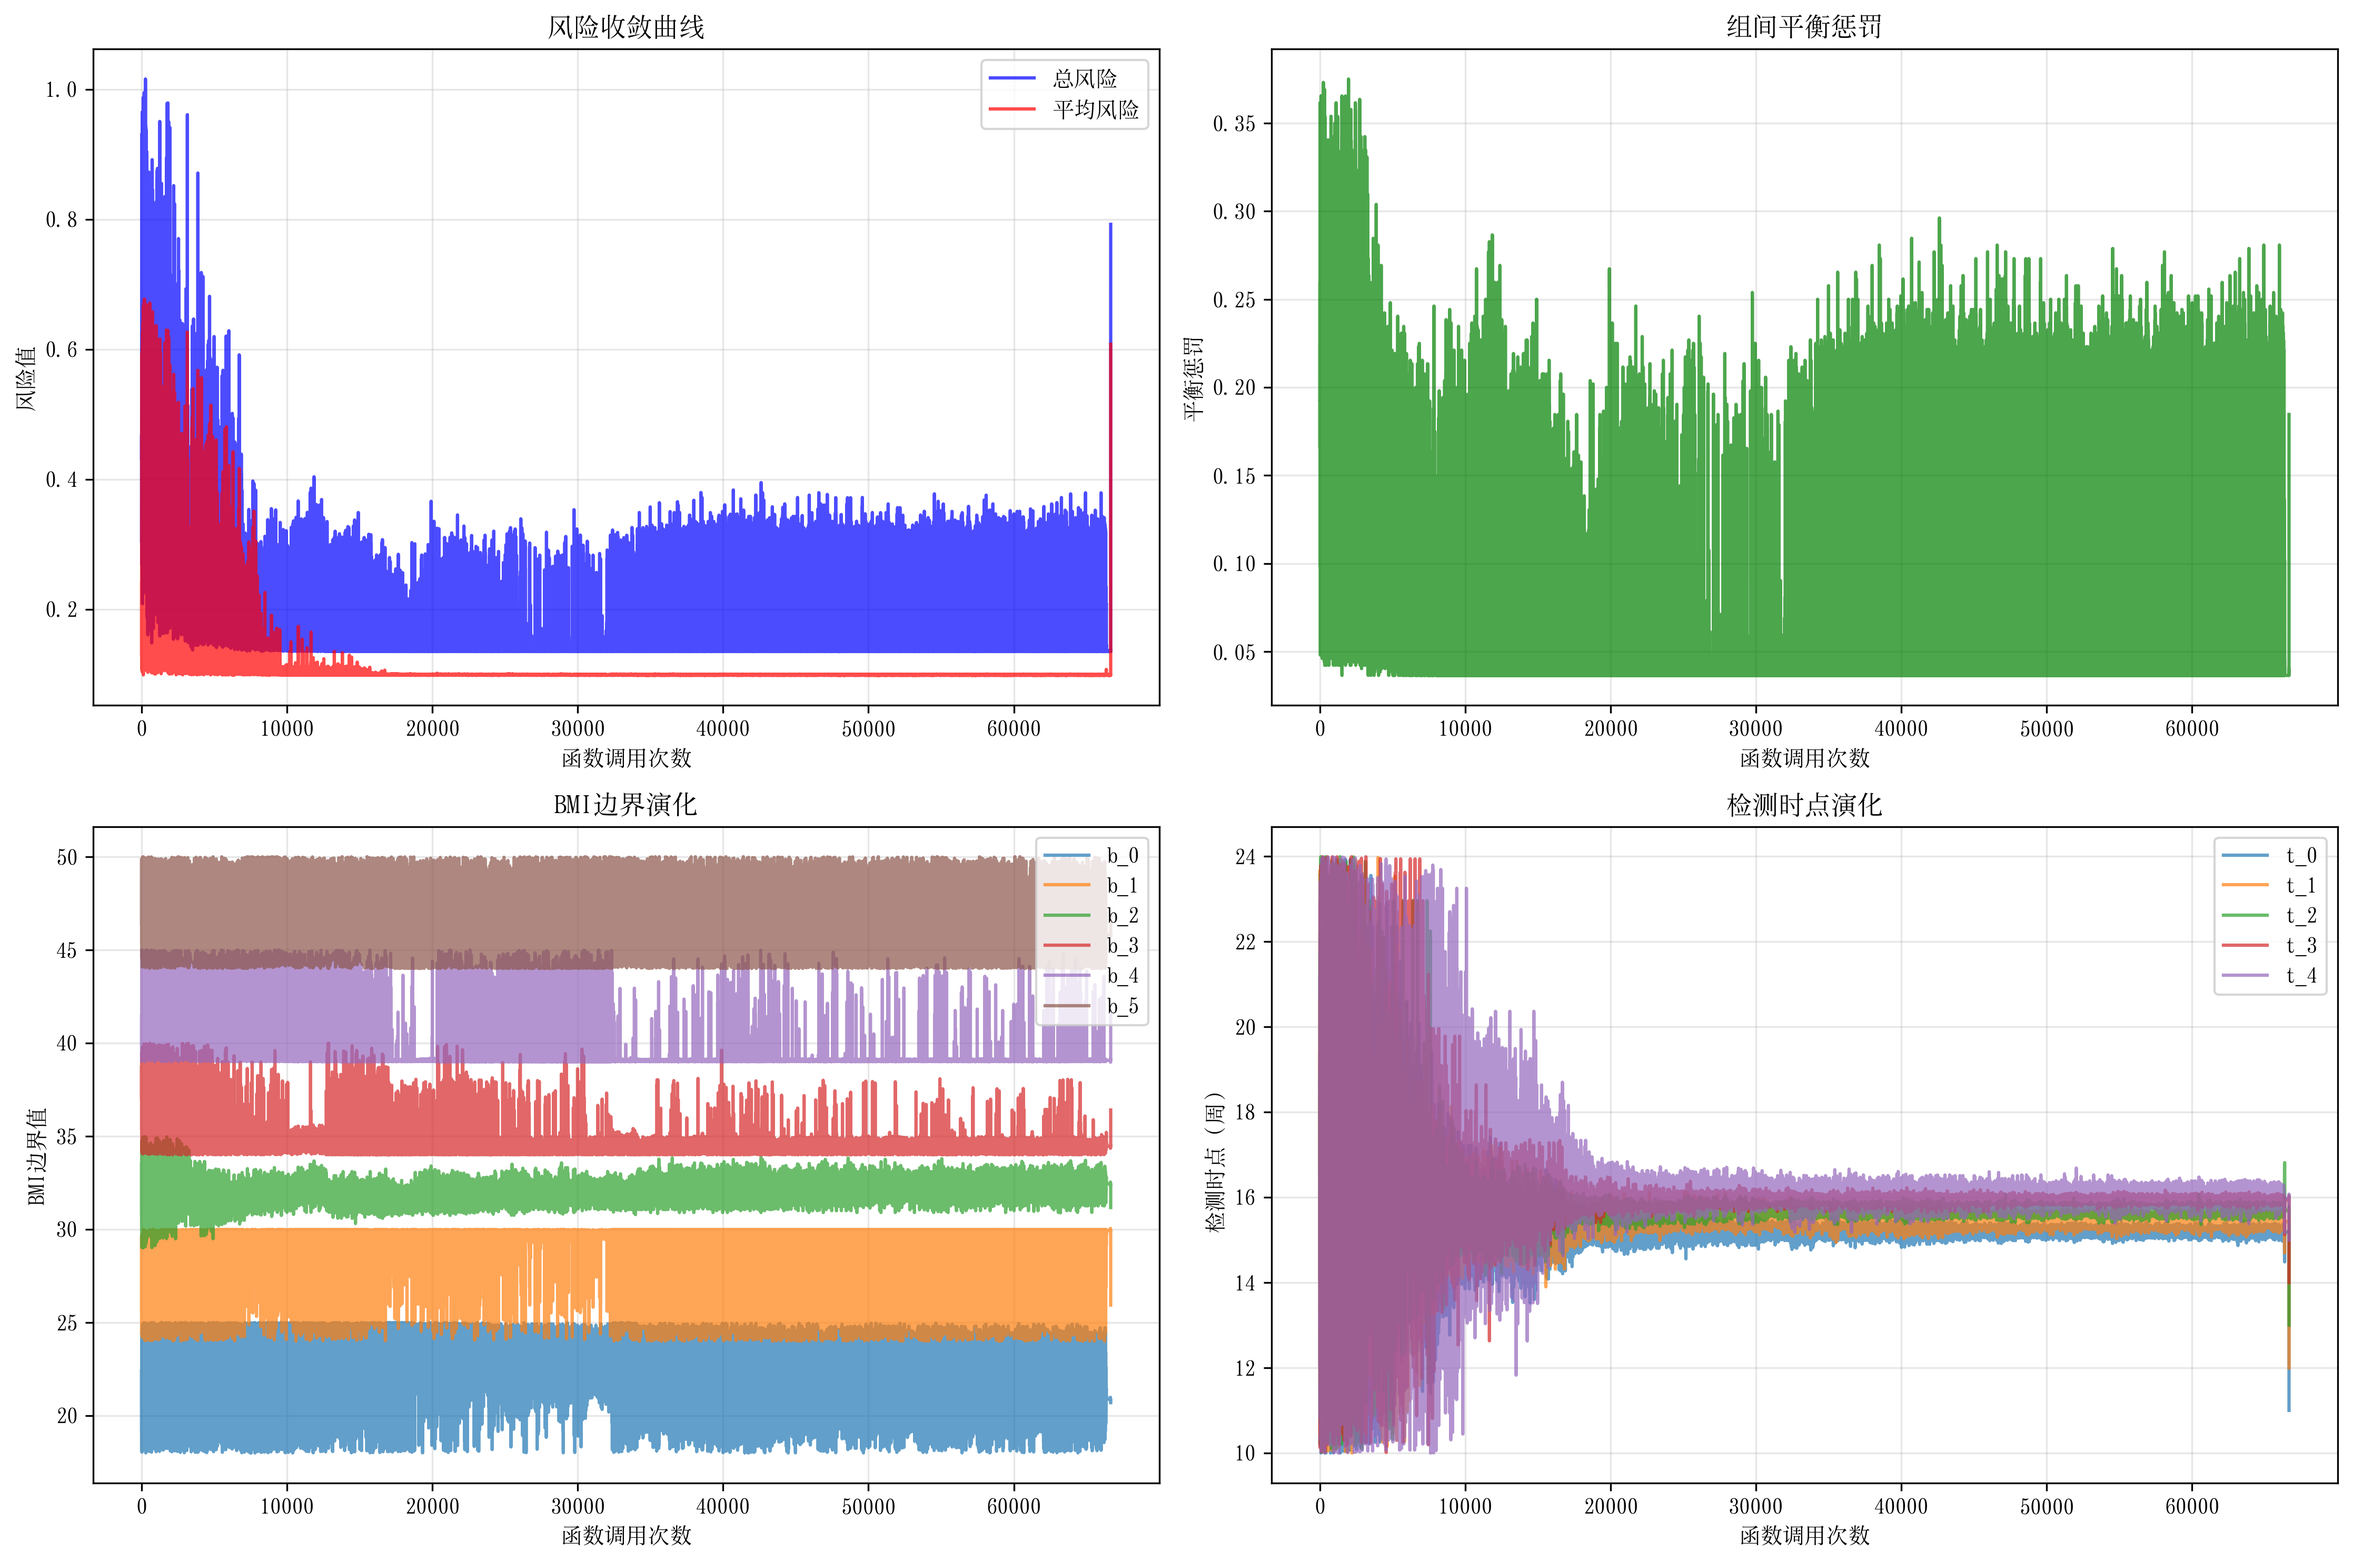
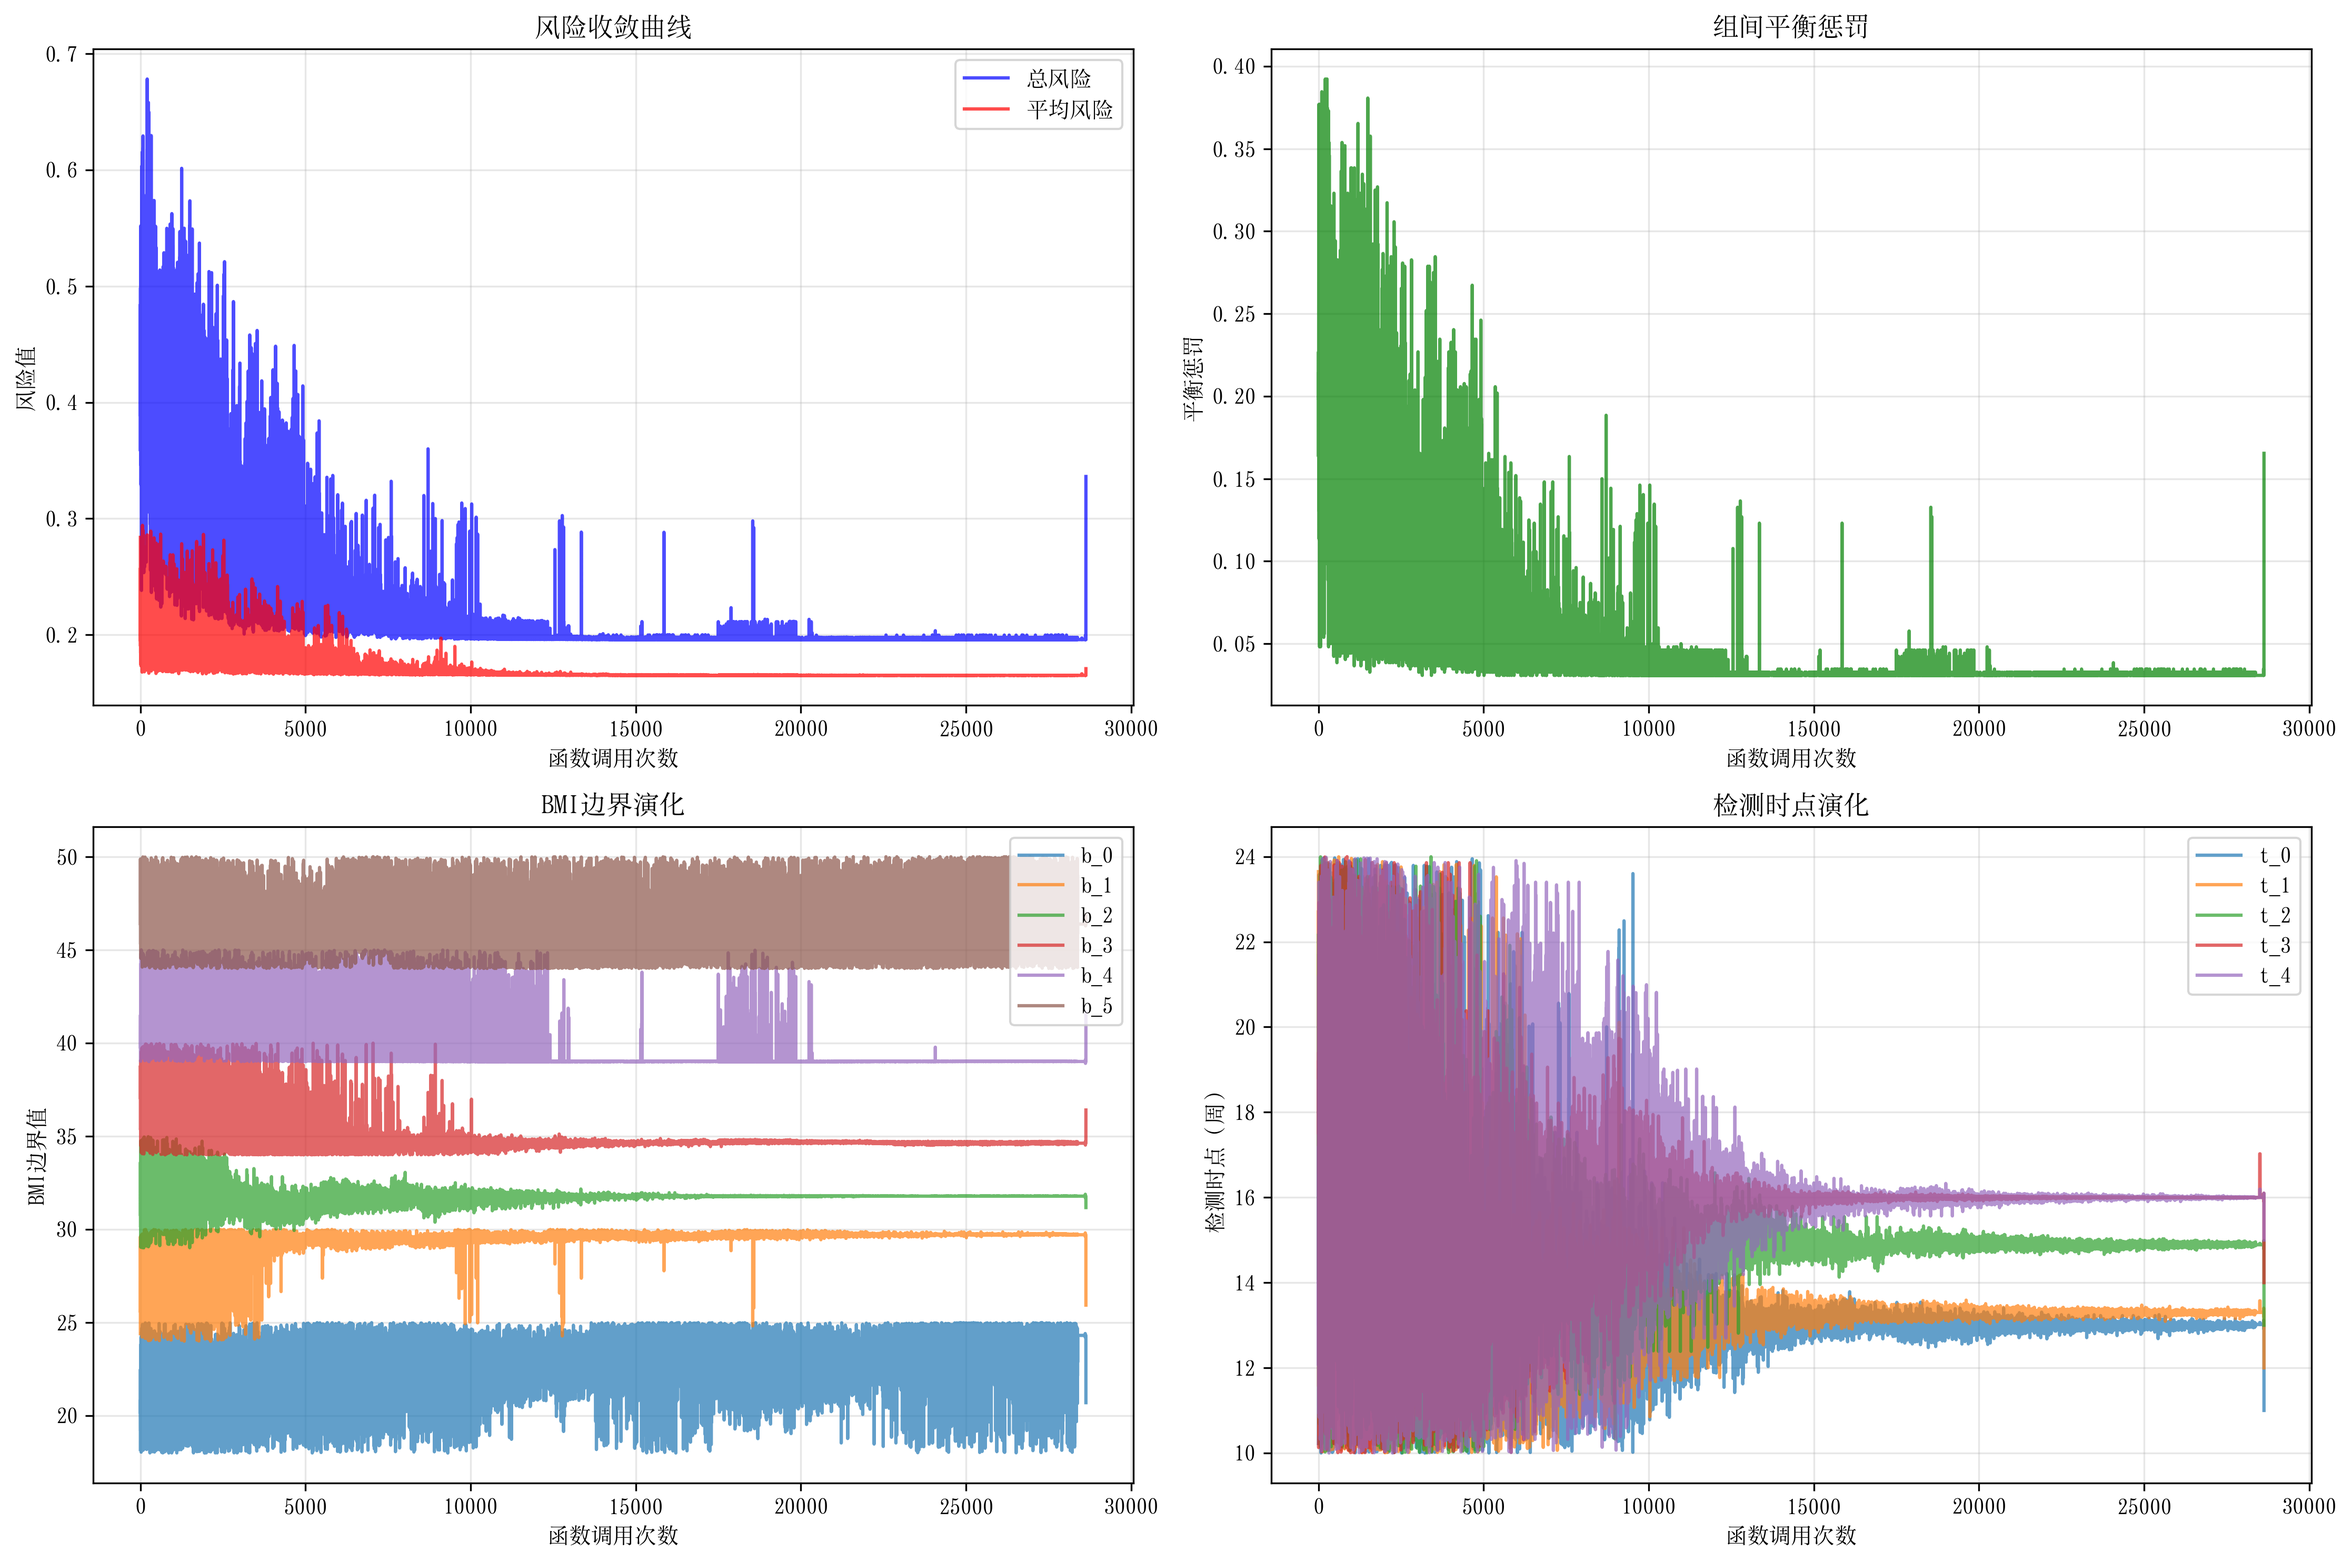
一次较好的结果

diff --git a/Q2/2_2.py b/Q2/2_2.py
@@ -16,7 +16,7 @@ logging.basicConfig(
 logger = logging.getLogger(__name__)
 
 
-class NIFTOptimizationDebugger:
+class NIPTOptimizationDebugger:
     """NIPT BMI分组优化调试器"""
 
     def __init__(self, data: pd.DataFrame, debug_mode: bool = True):
@@ -45,18 +45,13 @@ class NIFTOptimizationDebugger:
         self.w_accuracy = 0.65
         self.w_timing = 0.35
 
-    def calculate_accuracy_risk(self, y_concentration: float) -> float:
+    def calculate_accuracy_risk(self, delta_time: float) -> float:
         """计算准确性风险"""
-        threshold = 4.0
+        # if delta_time <= 0:
+        #     return 0.05  # 基础风险
 
-        if y_concentration >= threshold:
-            # 达标情况：风险很低但不为零
-            return 0.1 * np.exp(-(y_concentration - threshold))
-        else:
-            # 未达标情况：使用Sigmoid函数
-            deficit = threshold - y_concentration
-            risk = 1 / (1 + np.exp(-2 * deficit))
-            return risk
+        return min(0.1 * np.exp(0.2 * delta_time) + 0.05, 1.0)
+        # return min(0.05 + 0.05 * (1 - np.exp(-0.2 * delta_time)), 1.0)
 
     def calculate_timing_risk(self, detection_time: float) -> float:
         """计算时间延迟风险"""
@@ -71,35 +66,15 @@ class NIFTOptimizationDebugger:
         else:
             return 0.9 + 0.1 * min((detection_time - 27) / 5, 1.0)
 
-    def predict_y_concentration(
-        self, bmi: float, detection_time: float, patient_data: Dict
-    ) -> float:
-        """预测Y染色体浓度（简化模型）"""
-        # 基础浓度随时间增长
-        base_concentration = max(0, detection_time - 8) * 0.8
-
-        # BMI效应：BMI越高，浓度增长越慢
-        bmi_effect = -0.1 * (bmi - 25)
-
-        # 个体差异（可以基于其他特征）
-        individual_factor = patient_data.get(
-            "individual_factor", np.random.normal(0, 0.5)
-        )
-
-        predicted = base_concentration + bmi_effect + individual_factor
-        return max(0, predicted)
-
     def comprehensive_risk_assessment(
         self, patient_data: Dict, detection_time: float
     ) -> float:
         """综合风险评估"""
-        # 预测Y染色体浓度
-        predicted_conc = self.predict_y_concentration(
-            patient_data["BMI"], detection_time, patient_data
-        )
 
         # 计算两类风险
-        accuracy_risk = self.calculate_accuracy_risk(predicted_conc)
+        accuracy_risk = self.calculate_accuracy_risk(
+            patient_data["time"] - detection_time
+        )
         timing_risk = self.calculate_timing_risk(detection_time)
 
         # 总风险
@@ -124,7 +99,7 @@ class NIFTOptimizationDebugger:
             time_points = params[6:11].tolist()
 
             # 检查边界约束
-            if not self._check_boundary_constraints(boundaries):
+            if not self._check_boundary_constraints(boundaries, time_points):
                 return 1e6  # 大的惩罚值
 
             total_risk = 0
@@ -183,7 +158,9 @@ class NIFTOptimizationDebugger:
             logger.error(f"目标函数计算错误: {e}")
             return 1e6
 
-    def _check_boundary_constraints(self, boundaries: List[float]) -> bool:
+    def _check_boundary_constraints(
+        self, boundaries: List[float], time_points: List[float]
+    ) -> bool:
         """检查边界约束"""
         # 检查递增性
         for i in range(len(boundaries) - 1):
@@ -195,6 +172,15 @@ class NIFTOptimizationDebugger:
         for i in range(len(boundaries) - 1):
             if boundaries[i + 1] - boundaries[i] < min_gap:
                 return False
+
+        # for i in range(len(time_points) - 1):
+        #     if time_points[i + 1] <= time_points[i]:
+        #         return False
+
+        # min_gap = 0.2
+        # for i in range(len(time_points) - 1):
+        #     if time_points[i + 1] - time_points[i] < min_gap:
+        #         return False
 
         return True
 
@@ -468,17 +454,21 @@ class NIFTOptimizationDebugger:
         axes[1, 0].set_title("各组样本分布")
 
         # 4. 风险函数可视化
-        time_range = np.linspace(10, 25, 100)
-        conc_range = np.linspace(0, 8, 100)
+        time_range = np.linspace(0, 40, 100)
+        delta_time_range = np.linspace(0, 40, 100)
 
         # 时间风险曲线
         timing_risks = [self.calculate_timing_risk(t) for t in time_range]
         axes[1, 1].plot(time_range, timing_risks, "r-", label="时间风险", linewidth=2)
 
         # 准确性风险曲线（以不同浓度为例）
-        accuracy_risks = [self.calculate_accuracy_risk(c) for c in conc_range]
+        accuracy_risks = [
+            self.calculate_accuracy_risk(20 - t) for t in time_range
+        ]
         ax2 = axes[1, 1].twinx()
-        ax2.plot(conc_range, accuracy_risks, "b-", label="准确性风险", linewidth=2)
+        ax2.plot(
+            delta_time_range, accuracy_risks, "b-", label="准确性风险", linewidth=2
+        )
 
         axes[1, 1].set_xlabel("检测时点（周）")
         axes[1, 1].set_ylabel("时间风险", color="r")
@@ -532,7 +522,9 @@ class NIFTOptimizationDebugger:
 
             # 检查约束
             if i < 6:  # 边界参数
-                if not self._check_boundary_constraints(perturbed_params[:6]):
+                if not self._check_boundary_constraints(
+                    perturbed_params[:6], perturbed_params[6:]
+                ):
                     risk_pos = 1e6
                 else:
                     risk_pos = self.objective_function(perturbed_params)
@@ -544,7 +536,9 @@ class NIFTOptimizationDebugger:
             perturbed_params[i] -= perturbation
 
             if i < 6:  # 边界参数
-                if not self._check_boundary_constraints(perturbed_params[:6]):
+                if not self._check_boundary_constraints(
+                    perturbed_params[:6], perturbed_params[6:]
+                ):
                     risk_neg = 1e6
                 else:
                     risk_neg = self.objective_function(perturbed_params)
@@ -606,7 +600,7 @@ def main():
 
     # 2. 初始化优化器
     print("2. 初始化优化器...")
-    optimizer = NIFTOptimizationDebugger(data, debug_mode=True)
+    optimizer = NIPTOptimizationDebugger(data, debug_mode=True)
 
     # 3. 运行差分进化优化
     print("3. 运行差分进化优化...")
@@ -695,7 +689,8 @@ if __name__ == "__main__":
 
     # 约束违反检查
     final_boundaries = analysis["boundaries"]
-    if optimizer._check_boundary_constraints(final_boundaries):
+    final_timepoints = analysis["time_points"]
+    if optimizer._check_boundary_constraints(final_boundaries, final_timepoints):
         print("最终解满足所有边界约束")
     else:
         print("警告: 最终解违反边界约束!")

diff --git a/Q2/draw.py b/Q2/draw.py
@@ -1,0 +1,29 @@
+import pandas as pd
+import matplotlib.pyplot as plt
+
+
+plt.rcParams["font.sans-serif"] = ["SimHei", "SimSong"]
+
+# 读取Excel文件
+df = pd.read_excel("data.xlsx")
+
+# 创建散点图
+plt.figure(figsize=(10, 6))
+plt.scatter(df["BMI"], df["target_time"], alpha=0.7, s=50)
+
+# 设置图表标题和轴标签
+plt.title("BMI与目标时间散点图", fontsize=16, fontweight="bold")
+plt.xlabel("BMI", fontsize=12)
+plt.ylabel("Target Time", fontsize=12)
+
+# 添加网格线，使图表更易读
+plt.grid(True, alpha=0.3)
+
+# 调整布局
+plt.tight_layout()
+
+# 显示图表
+plt.show()
+
+# 可选：保存图表
+# plt.savefig('bmi_scatter_plot.png', dpi=300, bbox_inches='tight')
